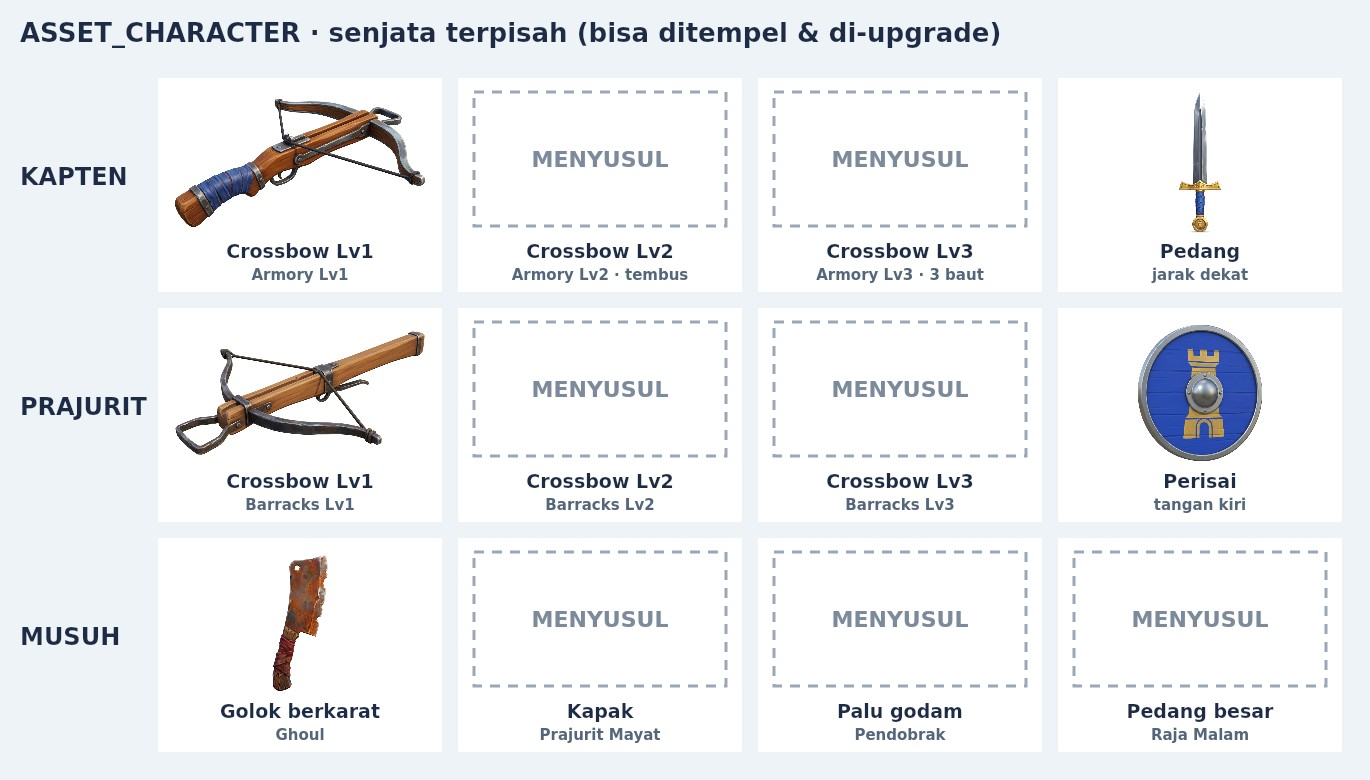
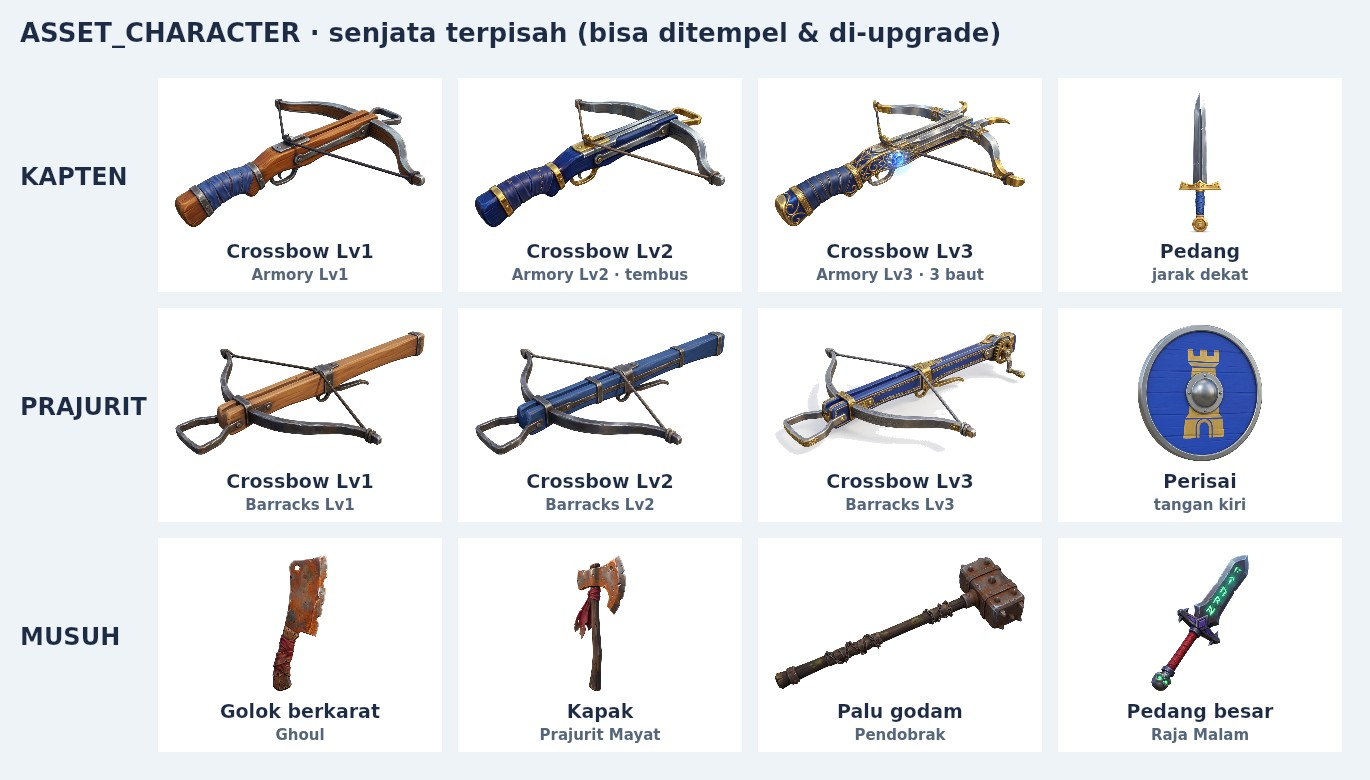
ASSET_CHARACTER: the 7 remaining weapon concepts (captain crossbow Lv2/Lv3, guard crossbow Lv2/Lv3, undead axe, breaker maul, night lord greatsword), cut-outs, weapons sheet, checksums; 18/18

diff --git a/ASSET_CHARACTER/README.md b/ASSET_CHARACTER/README.md
@@ -46,11 +46,13 @@ Dengan begitu senjata bisa dibuat jadi model terpisah dan ditempel ke tangan kar
 
 | Pemilik | Lv1 | Lv2 | Lv3 | Lainnya |
 |---|---|---|---|---|
-| Kapten (Armory: Hunter Lv1–3) | `captain-crossbow-lv1` ✅ | `captain-crossbow-lv2` ⏳ (Lv2: baut tembus) | `captain-crossbow-lv3` ⏳ (Lv3: kipas 3 baut) | `captain-sword` ✅ (jarak dekat, klip `sword`) |
-| Prajurit (usulan: ikut level Barracks) | `guard-crossbow-lv1` ✅ | `guard-crossbow-lv2` ⏳ | `guard-crossbow-lv3` ⏳ | `guard-shield` ✅ (tangan kiri) |
-| Musuh | `ghoul-cleaver` ✅ (Ghoul) | `undead-soldier-axe` ⏳ (Prajurit Mayat) | `breaker-maul` ⏳ (Pendobrak) | `night-lord-greatsword` ⏳ (Raja Malam) |
+| Kapten (Armory: Hunter Lv1–3) | `captain-crossbow-lv1` ✅ | `captain-crossbow-lv2` ✅ (Lv2: baut tembus) | `captain-crossbow-lv3` ✅ (Lv3: kipas 3 baut) | `captain-sword` ✅ (jarak dekat, klip `sword`) |
+| Prajurit (usulan: ikut level Barracks) | `guard-crossbow-lv1` ✅ | `guard-crossbow-lv2` ✅ | `guard-crossbow-lv3` ✅ | `guard-shield` ✅ (tangan kiri) |
+| Musuh | `ghoul-cleaver` ✅ (Ghoul) | `undead-soldier-axe` ✅ (Prajurit Mayat) | `breaker-maul` ✅ (Pendobrak) | `night-lord-greatsword` ✅ (Raja Malam) |
 
-✅ sudah dibuat. ⏳ **menyusul**: batas 10 gambar per turn sudah tercapai. Prompt-nya sudah tertulis di `prompts.json` dengan status `planned`. Lv2 dan Lv3 dibuat dari gambar Lv1 sebagai referensi, supaya bentuk dasarnya sama dan hanya bertambah detail.
+✅ sudah dibuat. Semua **12 senjata** kini ada: 5 dibuat 2026-10-17, 7 sisanya 2026-10-18 (prompt di `prompts.json`, tidak diubah dari rencana). Lv2 dan Lv3 dibuat dari gambar Lv1 sebagai referensi, supaya bentuk dasarnya sama dan hanya bertambah detail.
+
+Catatan hasil: crossbow Kapten Lv3 terbaca sebagai versi mewah (biru-emas, permata biru), tetapi **tiga alur baut tidak terlihat jelas** di gambar. Saat dimodelkan, tambahkan dua alur di kiri-kanan rel. Crossbow prajurit Lv3 punya sedikit bayangan abu di bawah busur; versi `cutout/` tetap bersih di tepinya.
 
 Desain level mengikuti aturan game yang sudah ada. Armory Lv2 membuat baut **menembus** satu musuh, jadi Lv2 dibuat lebih kokoh. Lv3 menembakkan **3 baut sekaligus**, jadi Lv3 dibuat sebagai crossbow tiga alur.
 
@@ -111,6 +113,6 @@ Begitu GLB-nya ada, karakter bisa diganti per peran tanpa mengubah aturan game.
 
 ## Provenance
 
-- Semua gambar di `characters/` dan `weapons/` **dibuat dengan AI**, yaitu alat generate gambar agent Arena, pada 2026-10-17 atas permintaan eksplisit user. Prompt lengkapnya ada di `prompts.json`.
+- Semua gambar di `characters/` dan `weapons/` **dibuat dengan AI**, yaitu alat generate gambar agent Arena, pada 2026-10-17 (6 karakter + 5 senjata) dan 2026-10-18 (7 senjata) atas permintaan eksplisit user. Prompt lengkapnya ada di `prompts.json`.
 - Gambar-gambar ini bukan aset pihak ketiga berlisensi. Aturan proyek "tanpa gambar AI" berlaku untuk aset game berlisensi di `assets/`. Folder ini adalah bahan konsep dan input pemodelan, sama seperti `docs/concepts/`, dan tidak dimuat oleh build game.
 - `cutout/` dan `preview/` adalah turunan yang dibuat skrip. Gambar aslinya tidak diubah; checksum-nya ada di `SHA256SUMS.txt`.
